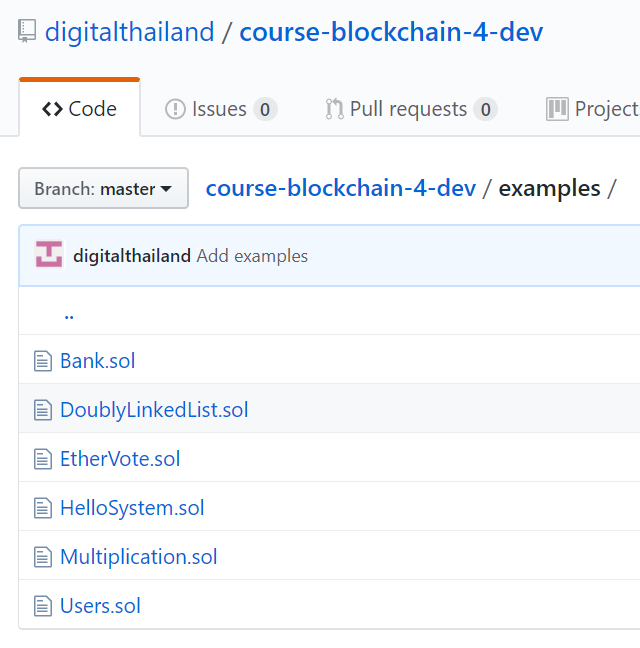
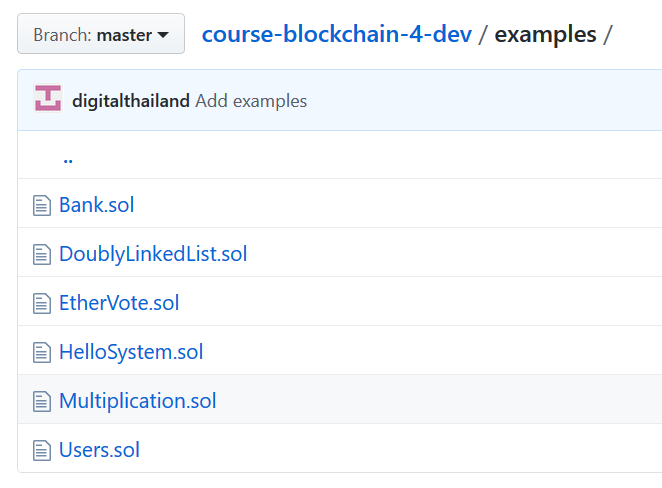
Update links and fix an image.

diff --git a/Code2Blockchain.md b/Code2Blockchain.md
@@ -6,7 +6,7 @@
 
 ### 2.Multiplication.sol
 * เปิดไฟล์ตัวอย่าง `Multiplication.sol` ที่อยู่ในโฟร์เดอร์ examples
-![img](/imgs/img02.PNG)
+[![img](/imgs/img02.PNG)](https://github.com/digitalthailand/course-blockchain-4-dev/blob/master/examples/Multiplication.sol)
 
 `Multiplication.sol`
 ```
@@ -100,7 +100,7 @@ var multiplication = multiplicationContract.new(
 ### 4.Putty
 * ทำการดาวโหลดโปรแกรม putty มาเก็บไว้  [https://www.chiark.greenend.org.uk/~sgtatham/putty/latest.html](https://www.chiark.greenend.org.uk/~sgtatham/putty/latest.html)
 
-![imgs](imgs/img04.PNG)
+[![imgs](imgs/img04.PNG)](https://www.chiark.greenend.org.uk/~sgtatham/putty/latest.html)
 
 ### 5.เชื่อมต่อไปยัง Server
 * เข้าไปที่ Azure แล้วเลือก Resource group ที่เราได้ทำการสร้าง Blockchain cluster ไว้
